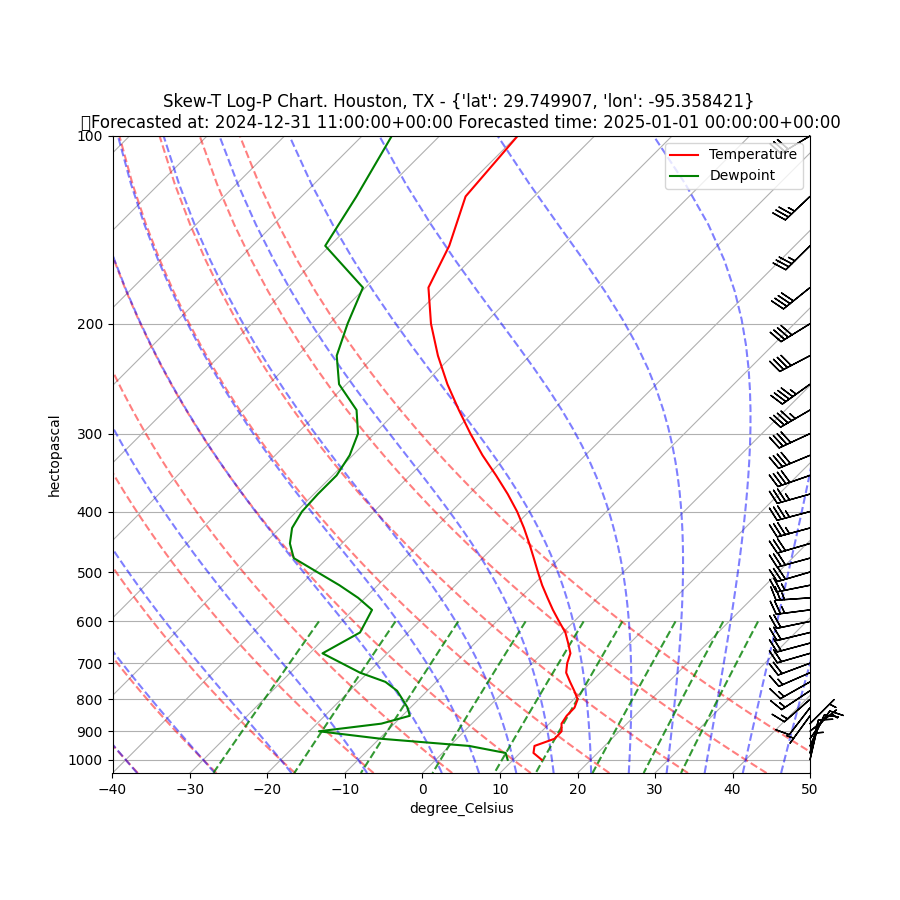
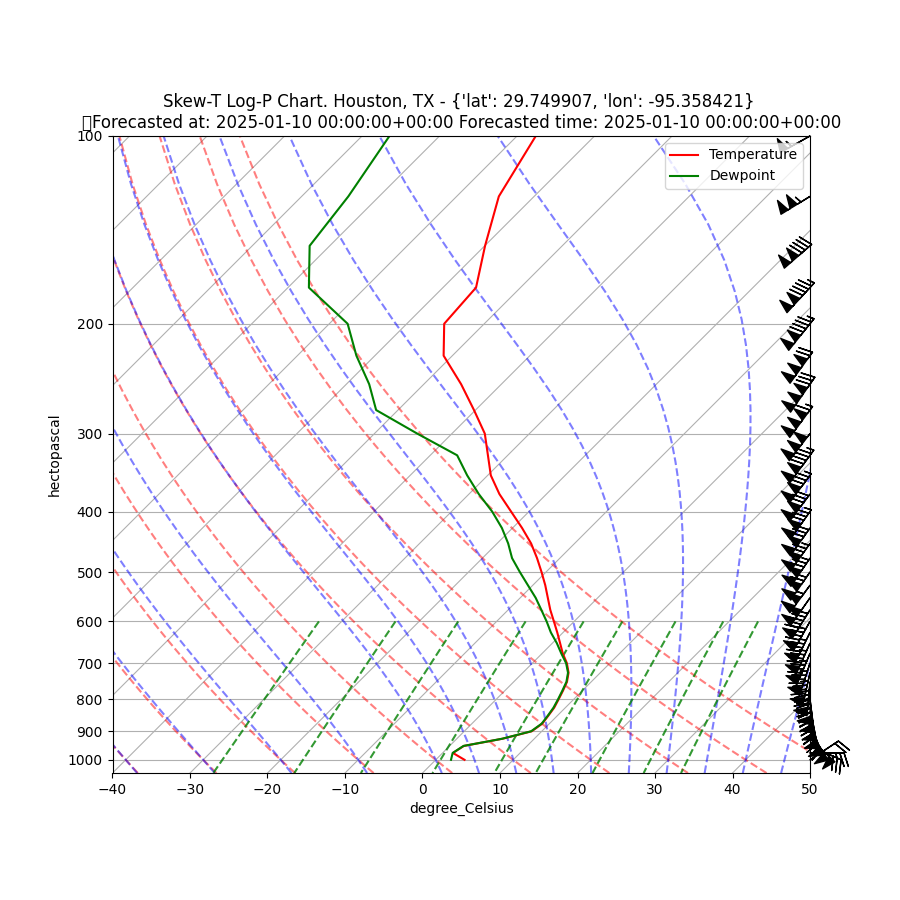
update with fixed units

diff --git a/skewtlogp.py b/skewtlogp.py
@@ -12,20 +12,21 @@ pressure_levels = [
     750, 775, 800, 825, 850, 875, 900, 925, 950, 975, 1000
 ]
 
-names = ['TMP', 'RH', 'UGRD', 'VGRD', 'HGT']
+names = ['TMP', 'RH', 'UGRD', 'VGRD']
 
 variables = []
 for name in names:
     for p in pressure_levels:
         variables.append({'name': name, 'level': f'{p} mb', 'info': ''})
 
-dt = datetime.datetime(year=2025, month=1, day=1, hour=0)
+dt = datetime.datetime(year=2025, month=1, day=10, hour=0)
 coords = {"lat": 29.749907, "lon": -95.358421}
+model = 'rap'
 city = 'Houston, TX'
 
 with GribStreamClient() as client:
     df = client.history(
-        dataset='rap',
+        dataset=model,
         from_time=dt,
         until_time=dt+datetime.timedelta(hours=1),
         min_horizon=0,
@@ -34,14 +35,13 @@ with GribStreamClient() as client:
         variables=variables,
     )
 
-# Example row to plot (replace with desired row selection)
+print(df)
 row = df.iloc[0]
 
 # Extract temperature, dewpoint, and pressure
 temperature = np.array([row[f'TMP|{p} mb|'] for p in pressure_levels]) * units.kelvin
 relative_humidity = np.array([row[f'RH|{p} mb|'] for p in pressure_levels]) * units.percent
 pressure = np.array(pressure_levels) * units.hPa
-geopotential_height = np.array([row[f'HGT|{p} mb|'] for p in pressure_levels]) * units.meter
 
 # Calculate dewpoint temperature from relative humidity and temperature
 from metpy.calc import dewpoint_from_relative_humidity
@@ -52,13 +52,15 @@ fig = plt.figure(figsize=(9, 9))
 skew = SkewT(fig, rotation=45)
 
 # Plot temperature and dewpoint
-skew.plot(pressure, temperature.to('degC'), 'r', label='Temperature')
-skew.plot(pressure, dewpoint.to('degC'), 'g', label='Dewpoint')
+skew.plot(pressure, temperature, 'r', label='Temperature')
+skew.plot(pressure, dewpoint, 'g', label='Dewpoint')
 
 # Add wind barbs if U and V wind components are available
 try:
     u_wind = np.array([row[f'UGRD|{p} mb|'] for p in pressure_levels]) * units('m/s')
     v_wind = np.array([row[f'VGRD|{p} mb|'] for p in pressure_levels]) * units('m/s')
+    u_wind = u_wind.to('knots')
+    v_wind = v_wind.to('knots')
     skew.plot_barbs(pressure, u_wind, v_wind)
 except KeyError:
     print("U and V wind components not available; skipping wind barbs.")
